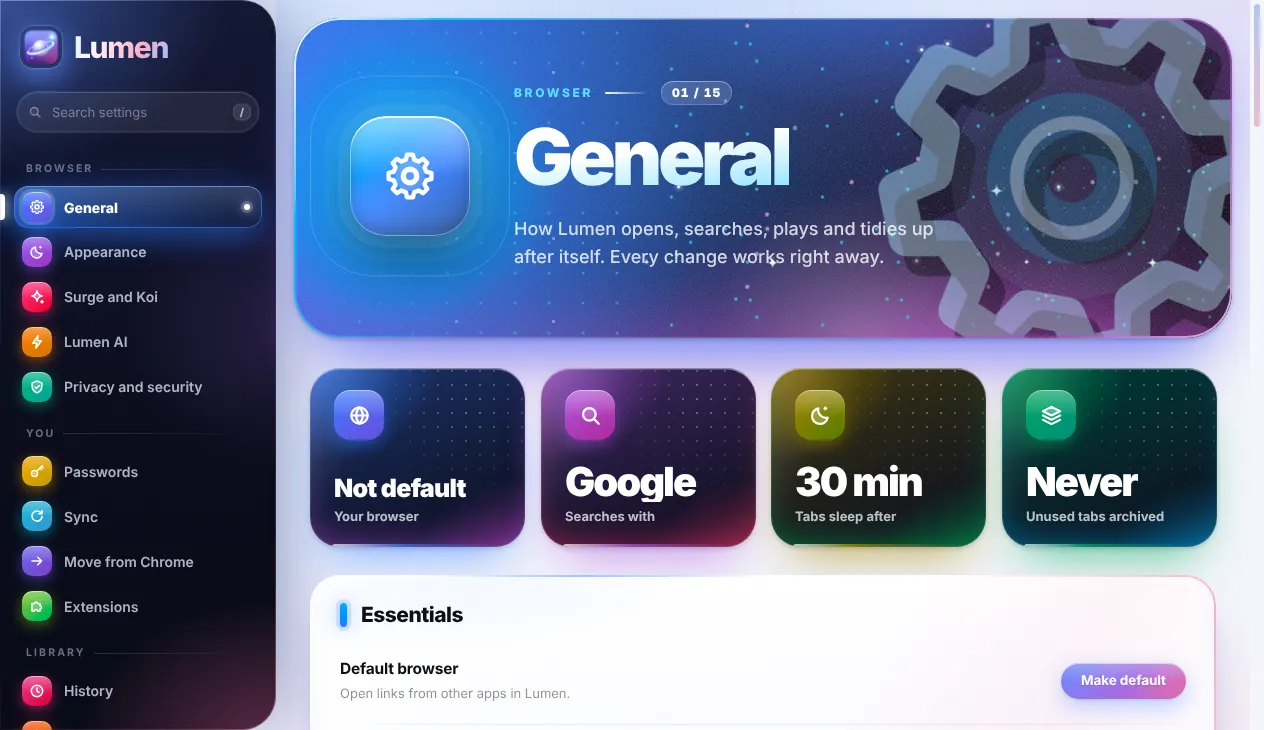
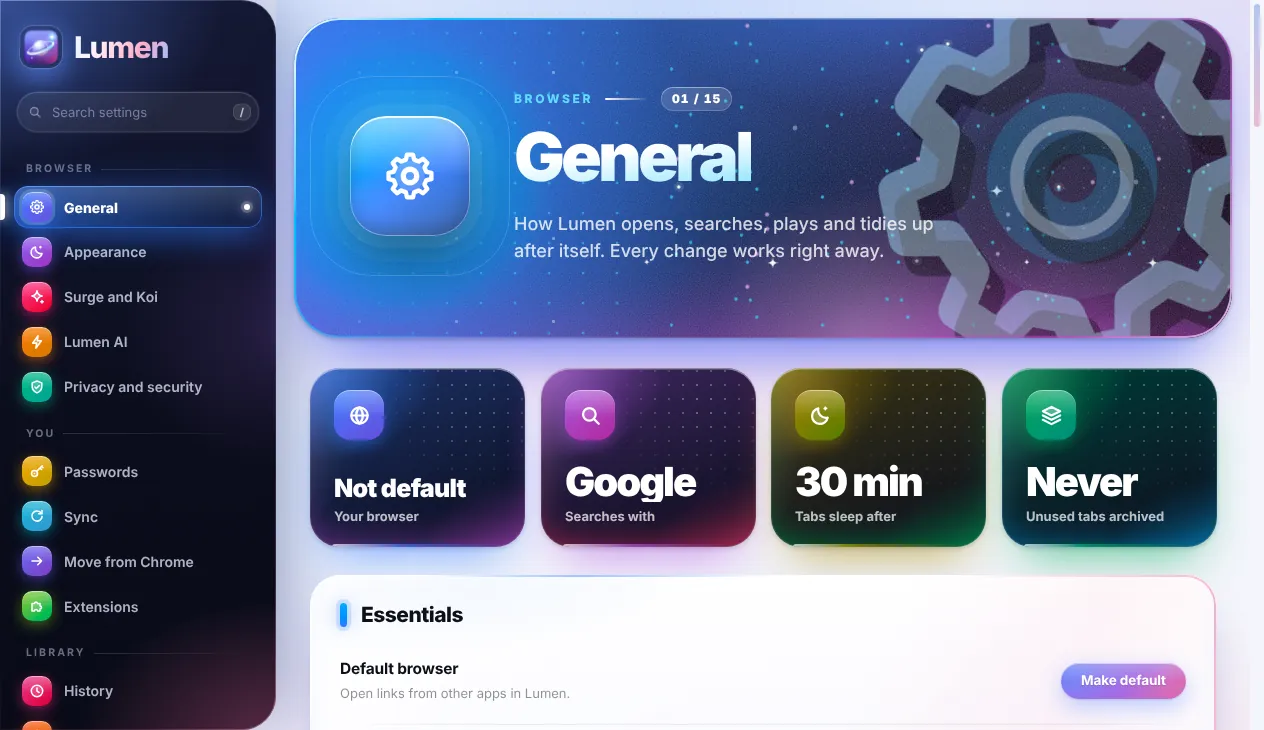
Site for Lumen 4.4.7: every screenshot re-taken from 4.4.7
Claude-Session: https://claude.ai/code/session_016io9pVZ6dJ8VMHbPwqrPds

Changed region(s): [[0.4011, 0.1808, 0.6479, 0.2712], [0.4011, 0.3014, 0.7405, 0.3616], [0.4011, 0.0904, 0.5862, 0.1507]]

diff --git a/index.html b/index.html
@@ -368,7 +368,7 @@ footer a:hover{color:#fff}
 <body>
 <header class="nav">
   <div class="wrap bar">
-    <a class="brand" href="#top"><img src="icon.webp" alt="" width="30" height="30">Lumen <small>4.4.6</small></a>
+    <a class="brand" href="#top"><img src="icon.webp" alt="" width="30" height="30">Lumen <small>4.4.7</small></a>
     <nav class="links" aria-label="Sections">
       <a class="h" href="#new">What's new</a>
       <a class="h" href="#speed">Speed</a>
@@ -430,7 +430,7 @@ footer a:hover{color:#fff}
     <div class="head c">
       <span class="eyebrow">What's new in 4.4</span>
       <h2>Watch Claude <span class="gt">work.</span></h2>
-      <p>Lumen 4.4 shows you every move Claude makes in a tab: its own glowing cursor, a label for what it is doing and a soft edge of light until it is done. 4.4.1 starts you off with one-tap tasks that fit the page, and 4.4.2 runs any finished task again with one tap. 4.4.3 makes passkeys tell you exactly what is going on, with your password or Safari one tap away. And from 4.4.4, every update plays its own short film again. 4.4.5 flips between Ask and Do it for me with Option Command A, and 4.4.6 saves your Shopify orders to Parcels with the right carrier. Claude in Lumen arrived in 4.3, and since 4.2 nothing lags.</p>
+      <p>Lumen 4.4 shows you every move Claude makes in a tab: its own glowing cursor, a label for what it is doing and a soft edge of light until it is done. 4.4.1 starts you off with one-tap tasks that fit the page, and 4.4.2 runs any finished task again with one tap. 4.4.3 makes passkeys tell you exactly what is going on, with your password or Safari one tap away. And from 4.4.4, every update plays its own short film again. 4.4.5 flips between Ask and Do it for me with Option Command A, 4.4.6 saves your Shopify orders to Parcels with the right carrier, and 4.4.7 makes every page title fit its banner. Claude in Lumen arrived in 4.3, and since 4.2 nothing lags.</p>
     </div>
     <figure class="glass mid"><img src="shots/parcels.webp" alt="The Parcels page with three parcels on the way: two orders saved from online shops, each with a Shop tag, the store name and its order number, and a progress line from Placed to Delivered" width="1264" height="590"><figcaption>New in 4.4.6: Shop orders in Parcels</figcaption></figure>
 
@@ -627,8 +627,8 @@ footer a:hover{color:#fff}
         <ul class="tags"><li>Trailer-style intro</li><li>New update card</li><li>New restart screen</li></ul>
       </div>
       <div class="overlap">
-        <figure class="glass back"><img src="shots/intro.webp" alt="The Lumen 4.4.6 intro, fresh from an update" width="1280" height="676"></figure>
-        <figure class="glass front sm"><img src="shots/updatecard.webp" alt="The update card downloading Lumen 4.4.6, with what is new in it" width="600" height="402"></figure>
+        <figure class="glass back"><img src="shots/intro.webp" alt="The Lumen 4.4.7 intro, fresh from an update" width="1280" height="676"></figure>
+        <figure class="glass front sm"><img src="shots/updatecard.webp" alt="The update card downloading Lumen 4.4.7, with what is new in it" width="600" height="402"></figure>
       </div>
     </div>
   </div>
@@ -1079,7 +1079,7 @@ footer a:hover{color:#fff}
 
 <footer>
   <div class="wrap">
-    <a class="brand" href="#top"><img src="icon.webp" alt="" width="24" height="24">Lumen 4.4.6</a>
+    <a class="brand" href="#top"><img src="icon.webp" alt="" width="24" height="24">Lumen 4.4.7</a>
     <nav aria-label="Footer">
       <a href="#new">What's new</a>
       <a href="#surge">Surge</a>
